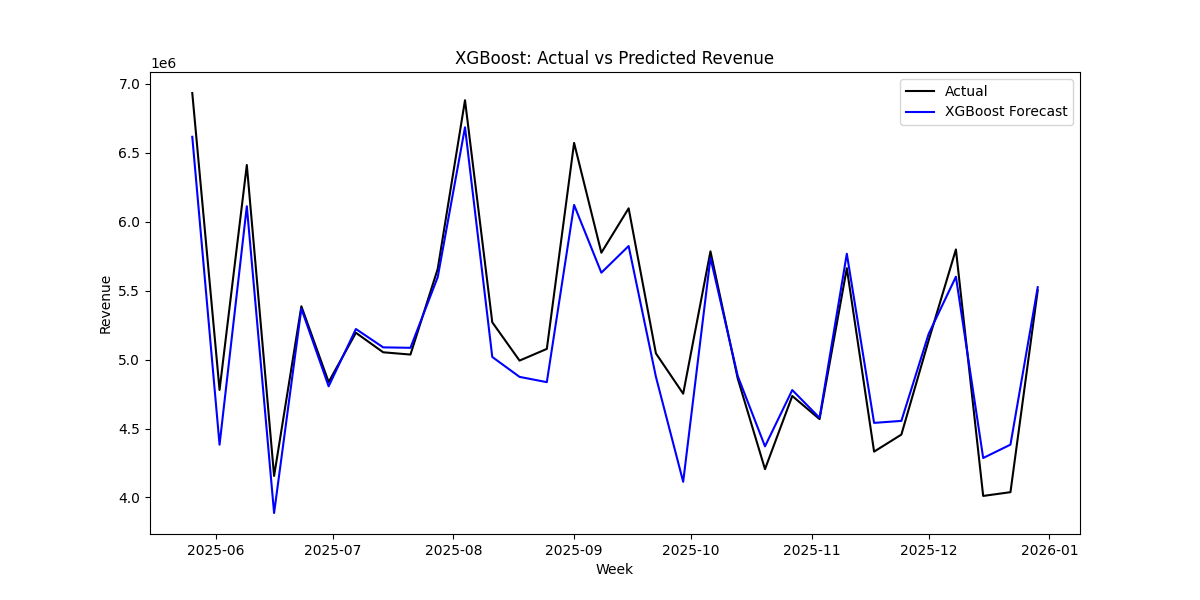
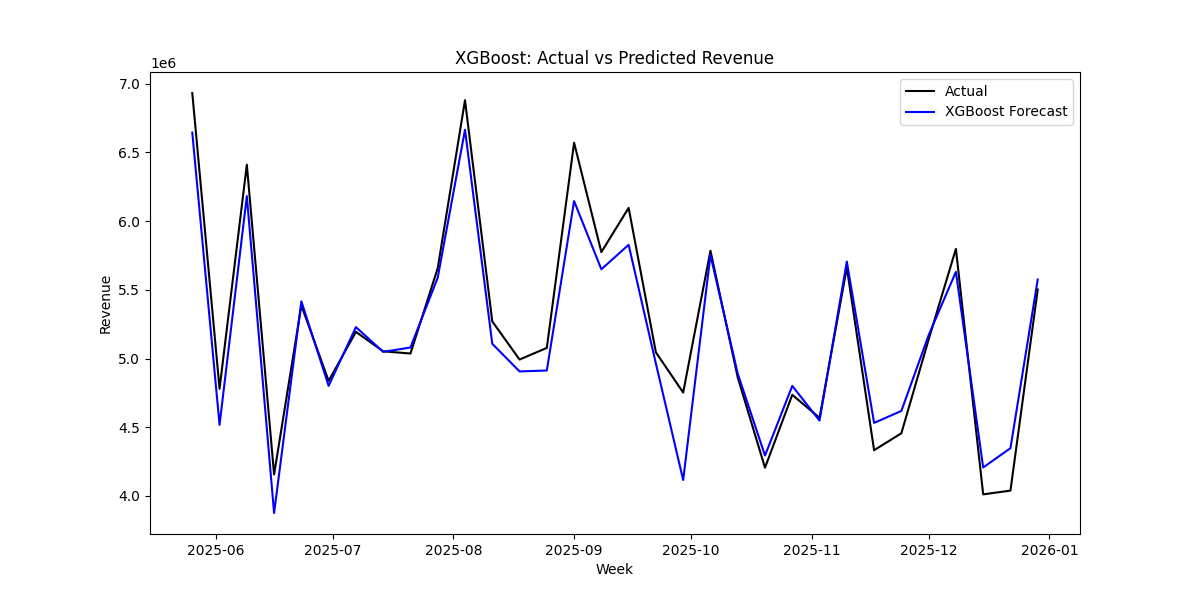
Tuned XGBoost via TimeSeriesSplit grid search and early stopping, MAPE 3.01%

diff --git a/xgboost_model.py b/xgboost_model.py
@@ -1,16 +1,16 @@
 #______importing libraries__________
 import pandas as pd
-import numpy as np 
+import numpy as np
 import xgboost as xgb
-from sklearn.metrics import mean_absolute_error,mean_squared_error
-import  matplotlib.pyplot as plt
-import shap 
+from sklearn.metrics import mean_absolute_error, mean_squared_error
+import matplotlib.pyplot as plt
+import shap
 
 #______loading featured weekly revenue data__________
-df=pd.read_csv("data/featured_weekly_revenue.csv")
-df["week_start"]=pd.to_datetime(df["week_start"])
+df = pd.read_csv("data/featured_weekly_revenue.csv")
+df["week_start"] = pd.to_datetime(df["week_start"])
 
-#______defining feature columns and target________
+#______defining feature columns and target__________
 feature_cols = ["lag_1", "lag_2", "lag_4", "lag_8", "lag_12", "lag_52",
                  "rolling_mean_4", "rolling_mean_12", "rolling_mean_26",
                  "rolling_std_4", "rolling_std_12", "rolling_max_4",
@@ -22,80 +22,60 @@ feature_cols = ["lag_1", "lag_2", "lag_4", "lag_8", "lag_12", "lag_52",
 X = df[feature_cols]
 y = df["revenue"]
 
-#______time-awware train/test split__________
-train_size=int(len(df)*0.8)
+#______time-aware train/test split__________
+train_size = int(len(df) * 0.8)
 
-X_train=X[:train_size]
-X_test=X[train_size:]
-y_test=y[train_size:]
-y_train=y[:train_size]
-y_test=y_test.reset_index(drop=True)
+X_train = X[:train_size]
+X_test = X[train_size:]
+y_train = y[:train_size]
+y_test = y[train_size:]
+y_test = y_test.reset_index(drop=True)
 
-#______training xgboost model__________
-model=xgb.XGBRegressor(
-  n_estimators=200,#the number of trees the model builds. Each tree corrects the errors of the previous ones. 200 is a reasonable starting point, not too few to underfit, not so many it overfits or trains slowly.
-  max_depth=4,
-  learning_rate=0.05,
-  subsample=0.8,#each tree is trained on a random 80% of the training rows instead of all of them. This adds randomness that helps prevent overfitting
-  colsample_bytree=0.8,#each tree only considers 80% of your 24 features when deciding splits, rather than all features every time. Also reduces overfitting and makes the model more robust.
-  random_state=42
+#______training XGBoost model with tuned parameters__________
+# all five parameters below came from proper validation, not manual guessing:
+# learning_rate, max_depth, subsample, colsample_bytree from TimeSeriesSplit grid search
+# n_estimators from early stopping
+model = xgb.XGBRegressor(
+    n_estimators=575,
+    max_depth=3,
+    learning_rate=0.03,
+    subsample=0.7,
+    colsample_bytree=0.9,
+    random_state=42
 )
 
-model.fit(X_train,y_train)
+model.fit(X_train, y_train)
 
 #______generating predictions on test set__________
-y_pred=model.predict(X_test)#runs the trained model on your test features and generates predicted revenue values for each of the 31 test weeks.
+y_pred = model.predict(X_test)
 
 #______calculating evaluation metrics__________
-mae=mean_absolute_error(y_test,y_pred)
-rmse=np.sqrt(mean_squared_error(y_test,y_pred))
-mape=np.mean(np.abs((y_test.values-y_pred)/y_test.values))*100 #calculates the average percentage error. .values converts y_test from a pandas series to a plain numpy array so it aligns correctly with y_pred for the subtraction.
+mae = mean_absolute_error(y_test, y_pred)
+rmse = np.sqrt(mean_squared_error(y_test, y_pred))
+mape = np.mean(np.abs((y_test.values - y_pred) / y_test.values)) * 100
 
 print(f"MAE: {mae:.2f}")
 print(f"RMSE: {rmse:.2f}")
 print(f"MAPE: {mape:.2f}%")
 
-#_______-debugging black line issue problem__________
-#print(y_test[:5])
-#print(test_date.values[:5])
+#______plotting actual vs predicted__________
+test_dates = df["week_start"][train_size:].reset_index(drop=True)
 
-#______plotting actual vs predicted________
-test_dates = df["week_start"][train_size:].reset_index(drop=True)#reset the index on test_dates before plotting
-
-plt.figure(figsize=(12, 6))#plots the true revenue values as a black line
+plt.figure(figsize=(12, 6))
 plt.plot(test_dates, y_test.values, label="Actual", color="black")
-plt.plot(test_dates, y_pred, label="XGBoost Forecast", color="blue")#plots your XGBoost predictions as a blue line, this time using a different colour from the ARIMA red so you can keep them visually distinct when comparing later.
+plt.plot(test_dates, y_pred, label="XGBoost Forecast (Tuned)", color="blue")
 plt.legend()
-plt.title("XGBoost: Actual vs Predicted Revenue")
+plt.title("XGBoost (Tuned): Actual vs Predicted Revenue")
 plt.xlabel("Week")
 plt.ylabel("Revenue")
-plt.savefig("outputs/xgboost_forecast.png")
+plt.savefig("outputs/xgboost_forecast_tuned.png", bbox_inches="tight")
 plt.show()
 
-#______SHAP explainablitly__________
-explainer=shap.TreeExplainer(model)# creates a SHAP explainer specifically built for tree-based models like XGBoost. It knows how to efficiently calculate exactly how each tree split contributed to every prediction.
-shap_values=explainer.shap_values(X_test)#calculates the SHAP value for every feature, for every row in your test set. This is a big matrix — 31 test weeks by 24 features, each cell telling you how much that feature pushed that specific week's prediction up or down.
+#______SHAP explainability__________
+explainer = shap.TreeExplainer(model)
+shap_values = explainer.shap_values(X_test)
 
-#______summary plot-overall feature importance__________
-shap.summary_plot(shap_values,X_test,show=False)# generates the most important SHAP visual, a chart that ranks all 24 features by their overall impact across every prediction. Features at the top matter most. show=False stops it from immediately popping up so we can save it first
-plt.savefig("outputs/shap_summary.png", bbox_inches="tight")# trims excess whitespace around SHAP plots which tend to have wide margins by default.
+#______summary plot — overall feature importance__________
+shap.summary_plot(shap_values, X_test, show=False)
+plt.savefig("outputs/shap_summary_tuned.png", bbox_inches="tight")
 plt.show()
-
-#______waterfall plot for one specific prediction__________
-sample_index=5
-shap.plots.waterfall(shap.Explanation(
-  values=shap_values[sample_index],
-  base_values=explainer.expected_value,
-  data=X_test.iloc[sample_index],
-  feature_names=feature_cols
-))
-plt.savefig("outputs/shap_waterfall.png", bbox_inches="tight")
-plt.show()
-
-
-#_______results from waterfall model_________________
-# E[f(X)] = 5,685,144.5, is the model's baseline expected prediction averaged across all training data. Each bar then shows how much each feature pushed the prediction away from that baseline, ending at the final predicted value of roughly ₹4,697,268 at the top.
-#revenue_vs_4w_avg pulled the prediction down by ₹4,41,048 — by far the dominant factor. This means that week's revenue was running noticeably below its recent 4-week average, and the model leaned heavily on that signal to predict a lower number.
-#rolling_mean_4 pushed it back up by ₹1,05,046, partially offsetting that — the recent 4-week average itself was still reasonably healthy.
-#revenue_pct_change_52, wow_change, and lag_4 all pulled slightly down, reinforcing the "this week is underperforming its recent pattern" story.
-#lag_2, lag_1, and lag_52 pulled slightly up, adding small counterbalancing signals from recent and year-ago revenue.